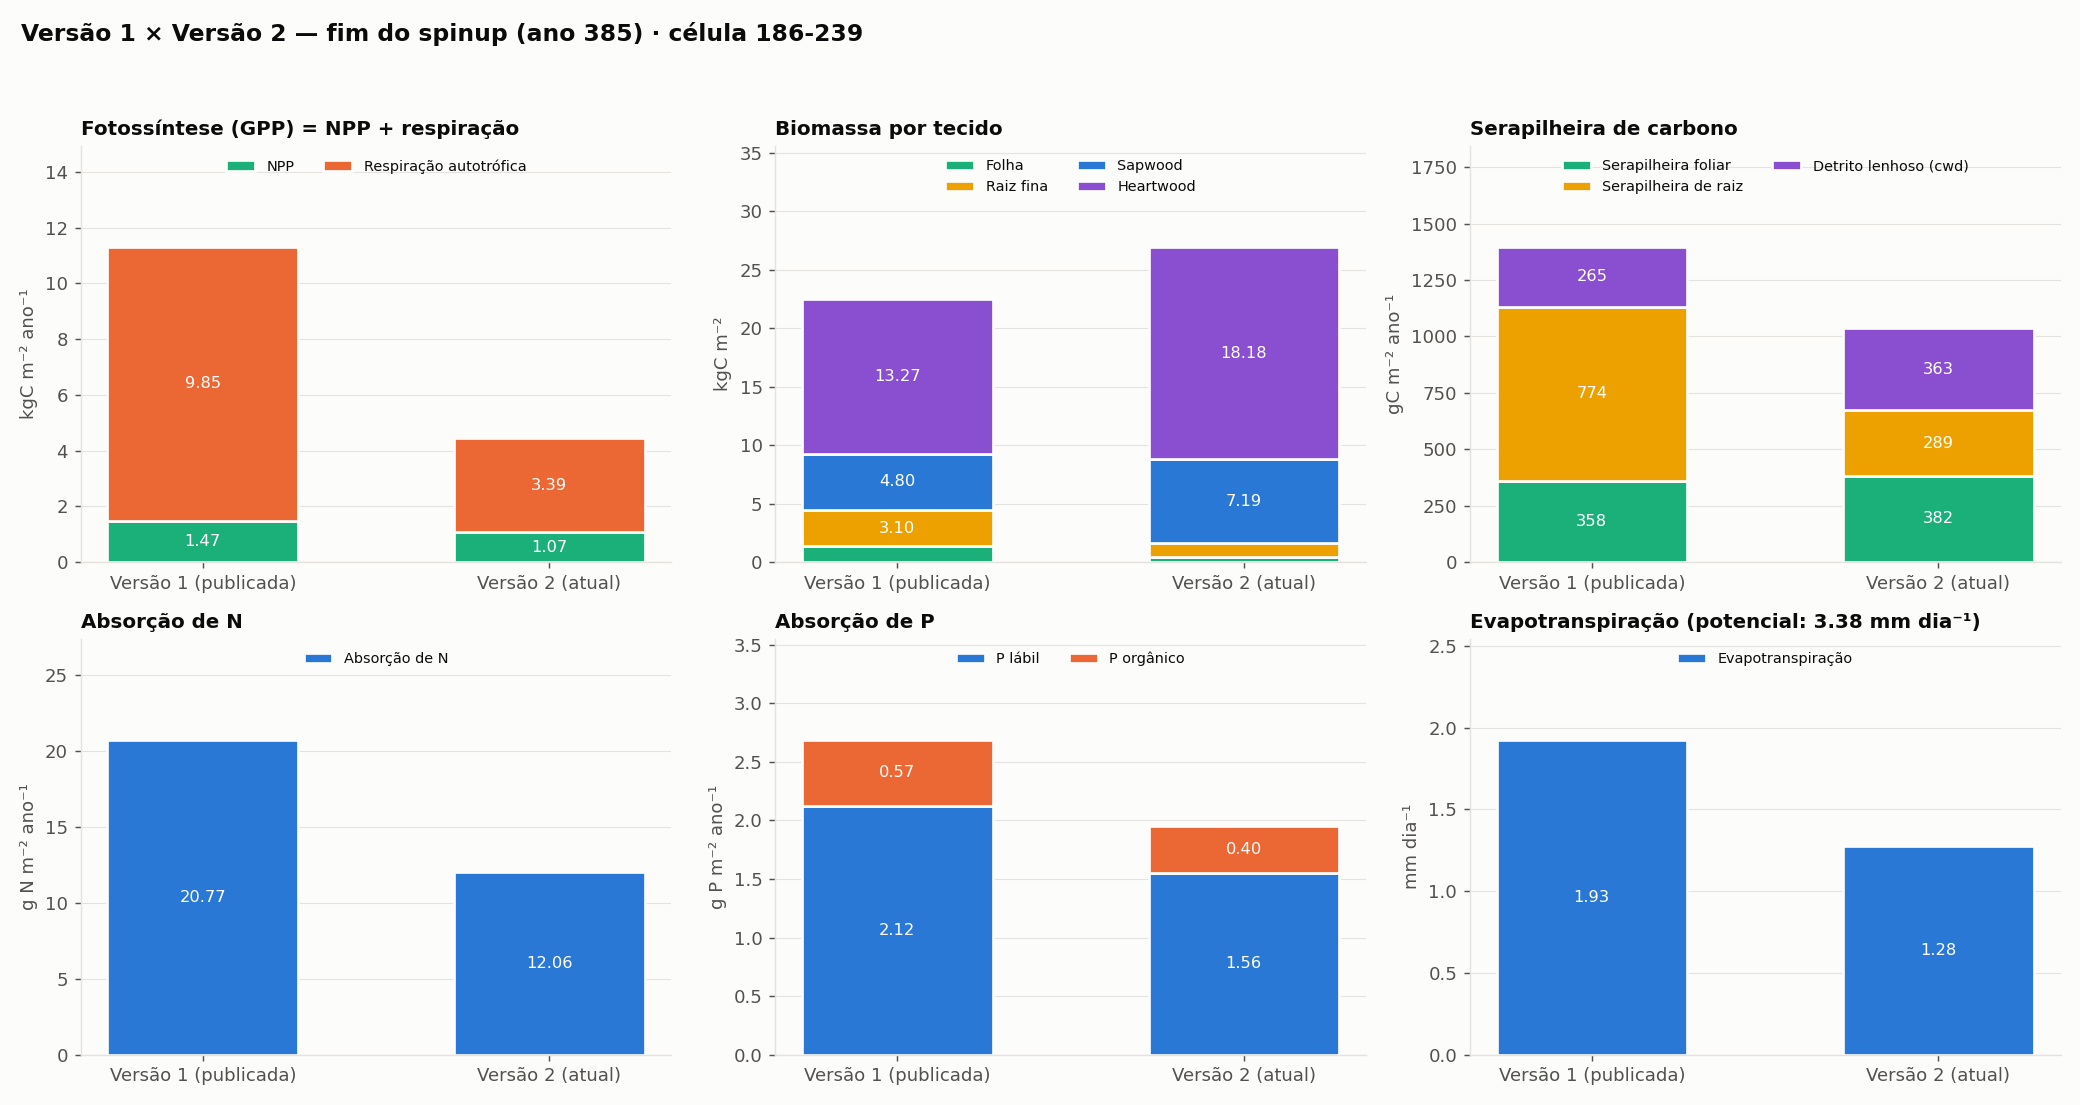
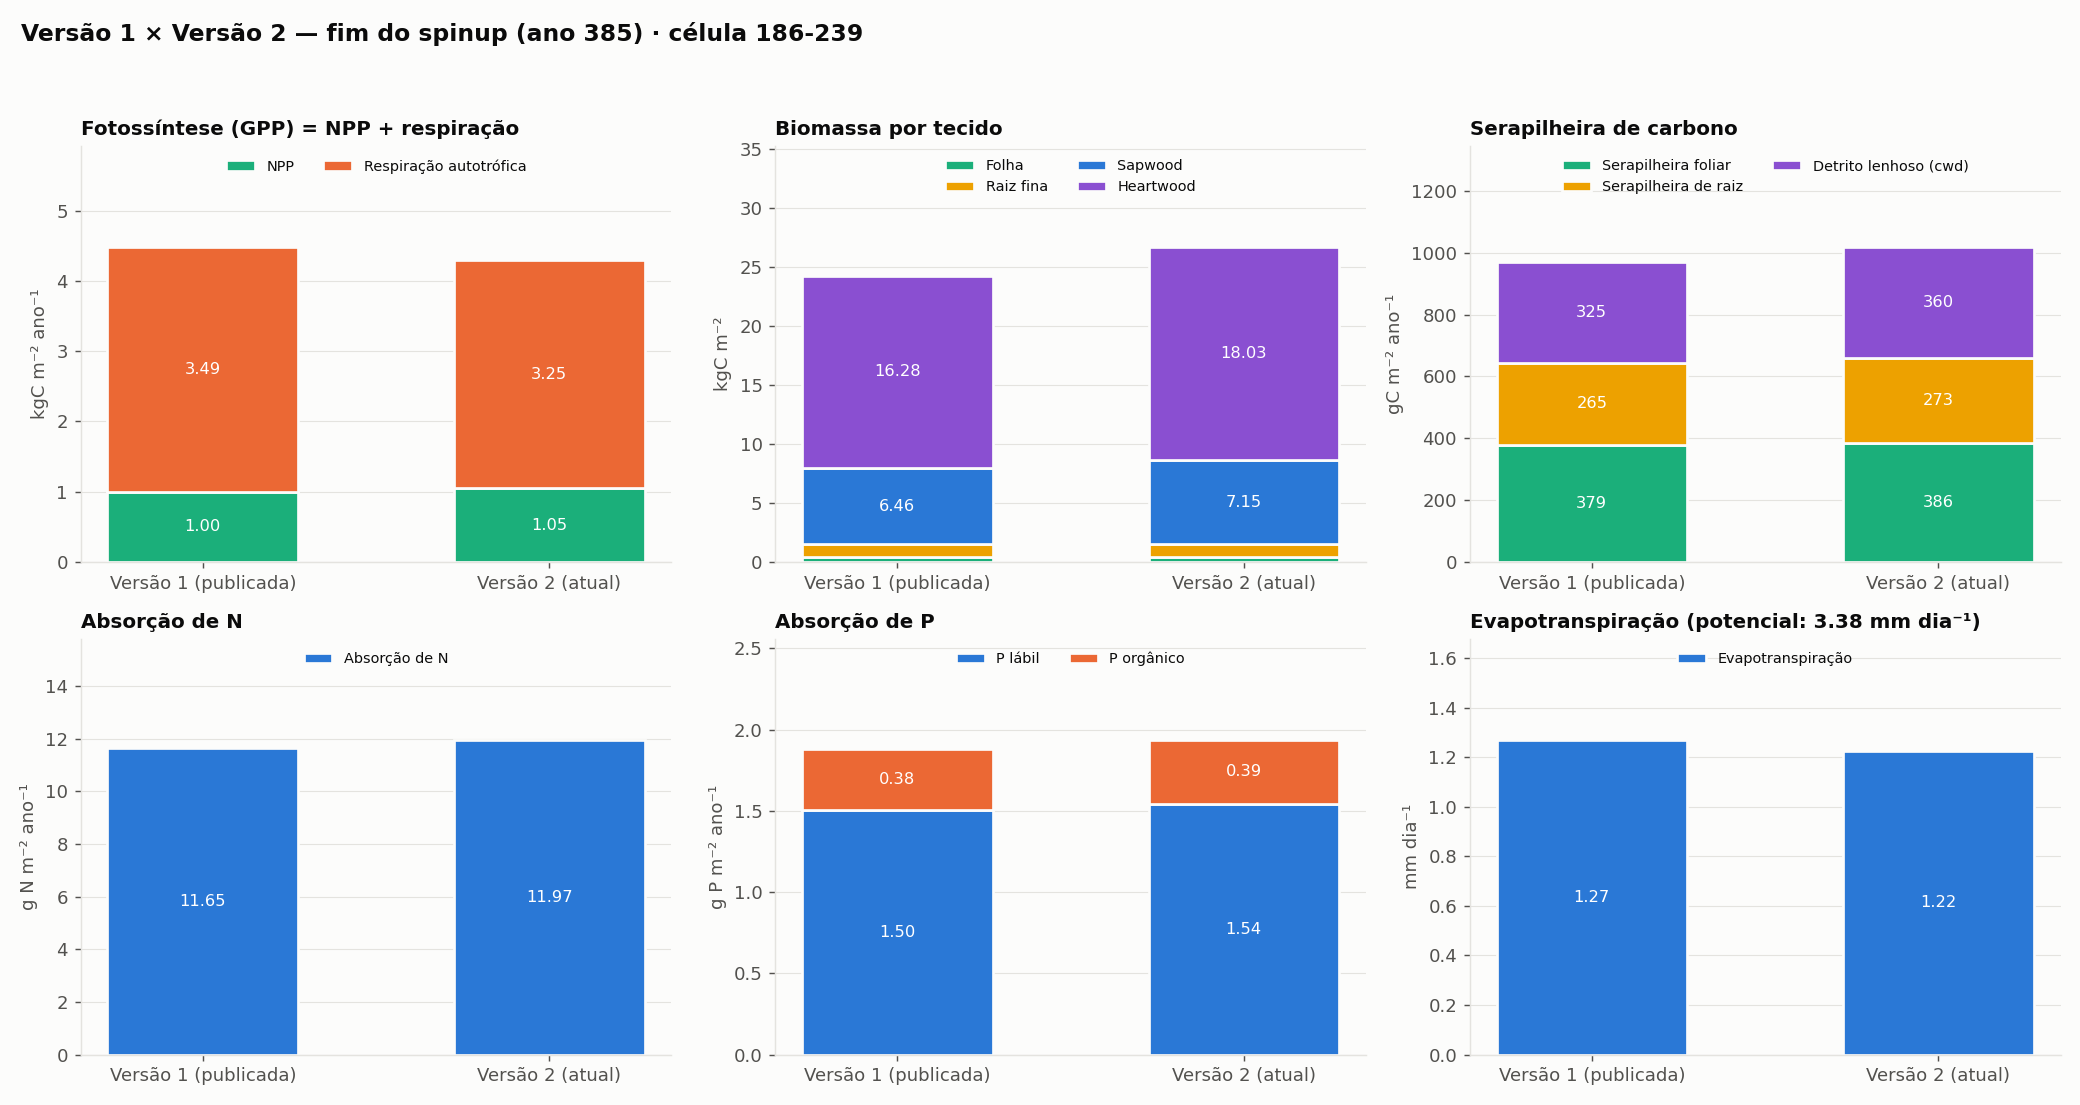
fixing growth respiration

diff --git a/docs/allom_nutri_gridcell186-239/scripts/compara.py b/docs/allom_nutri_gridcell186-239/scripts/compara.py
@@ -15,8 +15,12 @@ plt.rcParams.update({'font.size': 10, 'axes.edgecolor': GRID, 'axes.labelcolor':
                      'figure.facecolor': SURF, 'axes.facecolor': SURF, 'savefig.facecolor': SURF,
                      'axes.titlesize': 11, 'axes.titleweight': 'bold', 'axes.titlelocation': 'left',
                      'legend.frameon': False, 'lines.linewidth': 2})
-V1 = pd.read_csv('../v1_inicial/anual.csv', index_col=0)
-V2 = pd.read_csv('../v2_atual/anual.csv', index_col=0)
+#V1 = pd.read_csv('../v1_inicial/anual.csv', index_col=0)
+#V2 = pd.read_csv('../v2_atual/anual.csv', index_col=0)
+
+V1 = pd.read_csv('../run_rgrowth/anual.csv', index_col=0)
+V2 = pd.read_csv('../testing_model_bia/anual.csv', index_col=0)
+
 for d in (V1, V2):
     d['lenho'] = d.csap + d.cheart
     d['total'] = d.cleaf + d.cfroot + d.lenho + d.csto
@@ -89,6 +93,6 @@ tab = pd.DataFrame({'variavel': [r[0] for r in rows],
                     'v1_385': [V1.loc[385, r[1]] for r in rows], 'v2_385': [V2.loc[385, r[1]] for r in rows],
                     'v1_2016': [V1.loc[423, r[1]] for r in rows], 'v2_2016': [V2.loc[423, r[1]] for r in rows]})
 tab['dif_385_pct'] = 100 * (tab.v2_385 / tab.v1_385 - 1)
-tab.to_csv('../comparacao_v1_v2_tabela.csv', index=False)
+tab.to_csv('../comparacao_rgrowth_tabela.csv', index=False)
 pd.set_option('display.width', 200); pd.set_option('display.float_format', '{:.3g}'.format)
 print(tab.to_string(index=False))
